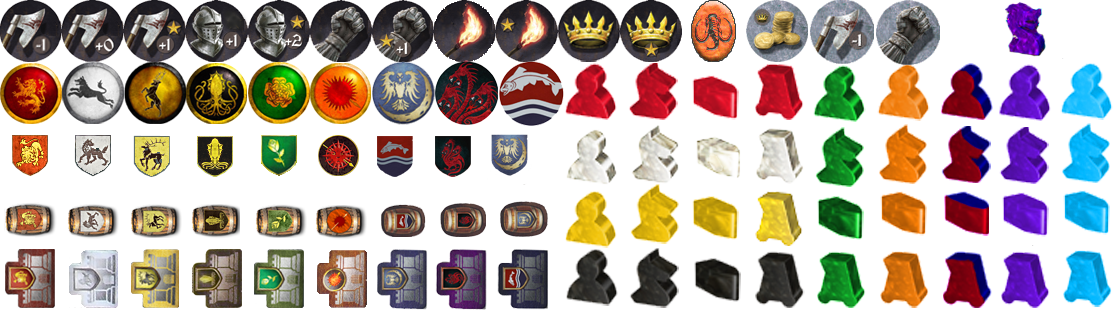
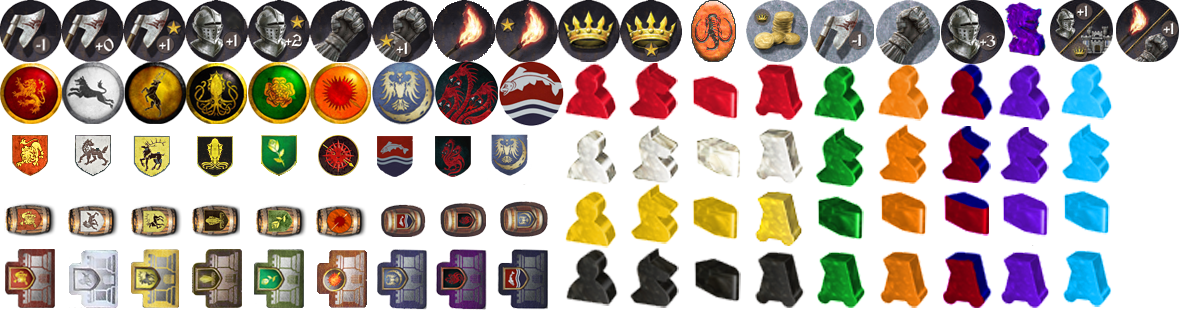
MoD: Added vassal orders

diff --git a/mod.html b/mod.html
@@ -104,7 +104,7 @@
             <textarea name="units-arryn"></textarea>
         </label>
         <label class="fullwidth">
-            Orders (m-1, m+0, m+1, nm-1, s, s*, ns, cp, cp*, ib, d, d*, r, r*):
+            Orders (m-1, m+0, m+1, nm-1, s, s*, ns, cp, cp*, ib, d, d*, r, r*; vassals - m+0, d+3, d-m, s-r):
             <textarea name="orders-arryn"></textarea>
         </label>
         <label class="fullwidth">
@@ -137,7 +137,7 @@
             <textarea name="units-baratheon"></textarea>
         </label>
         <label class="fullwidth">
-            Orders (m-1, m+0, m+1, nm-1, s, s*, ns, cp, cp*, ib, d, d*, r, r*):
+            Orders (m-1, m+0, m+1, nm-1, s, s*, ns, cp, cp*, ib, d, d*, r, r*; vassals - m+0, d+3, d-m, s-r):
             <textarea name="orders-baratheon"></textarea>
         </label>
         <label class="fullwidth">
@@ -170,7 +170,7 @@
             <textarea name="units-greyjoy"></textarea>
         </label>
         <label class="fullwidth">
-            Orders (m-1, m+0, m+1, nm-1, s, s*, ns, cp, cp*, ib, d, d*, r, r*):
+            Orders (m-1, m+0, m+1, nm-1, s, s*, ns, cp, cp*, ib, d, d*, r, r*; vassals - m+0, d+3, d-m, s-r):
             <textarea name="orders-greyjoy"></textarea>
         </label>
         <label class="fullwidth">
@@ -203,7 +203,7 @@
             <textarea name="units-lannister"></textarea>
         </label>
         <label class="fullwidth">
-            Orders (m-1, m+0, m+1, nm-1, s, s*, ns, cp, cp*, ib, d, d*, r, r*):
+            Orders (m-1, m+0, m+1, nm-1, s, s*, ns, cp, cp*, ib, d, d*, r, r*; vassals - m+0, d+3, d-m, s-r):
             <textarea name="orders-lannister"></textarea>
         </label>
         <label class="fullwidth">
@@ -236,7 +236,7 @@
             <textarea name="units-martell"></textarea>
         </label>
         <label class="fullwidth">
-            Orders (m-1, m+0, m+1, nm-1, s, s*, ns, cp, cp*, ib, d, d*, r, r*):
+            Orders (m-1, m+0, m+1, nm-1, s, s*, ns, cp, cp*, ib, d, d*, r, r*; vassals - m+0, d+3, d-m, s-r):
             <textarea name="orders-martell"></textarea>
         </label>
         <label class="fullwidth">
@@ -269,7 +269,7 @@
             <textarea name="units-stark"></textarea>
         </label>
         <label class="fullwidth">
-            Orders (m-1, m+0, m+1, nm-1, s, s*, ns, cp, cp*, ib, d, d*, r, r*):
+            Orders (m-1, m+0, m+1, nm-1, s, s*, ns, cp, cp*, ib, d, d*, r, r*; vassals - m+0, d+3, d-m, s-r):
             <textarea name="orders-stark"></textarea>
         </label>
         <label class="fullwidth">
@@ -302,7 +302,7 @@
             <textarea name="units-targaryen"></textarea>
         </label>
         <label class="fullwidth">
-            Orders (m-1, m+0, m+1, nm-1, s, s*, ns, cp, cp*, ib, d, d*, r, r*):
+            Orders (m-1, m+0, m+1, nm-1, s, s*, ns, cp, cp*, ib, d, d*, r, r*; vassals - m+0, d+3, d-m, s-r):
             <textarea name="orders-targaryen"></textarea>
         </label>
         <label class="fullwidth">
@@ -335,7 +335,7 @@
             <textarea name="units-tyrell"></textarea>
         </label>
         <label class="fullwidth">
-            Orders (m-1, m+0, m+1, nm-1, s, s*, ns, cp, cp*, ib, d, d*, r, r*):
+            Orders (m-1, m+0, m+1, nm-1, s, s*, ns, cp, cp*, ib, d, d*, r, r*; vassals - m+0, d+3, d-m, s-r):
             <textarea name="orders-tyrell"></textarea>
         </label>
         <label class="fullwidth">

diff --git a/9p_files/main_mod.js b/9p_files/main_mod.js
@@ -94,12 +94,15 @@ var $board = $('.board'),
                     .replace(/ r(aid)?\*(\n|$)/ig, ' raid-2$2')
                     .replace(/ d(efend)?(\+1)?(\n|$)/ig, ' defend-1$3')
                     .replace(/ d(efend)?(\+2)?\*?(\n|$)/ig, ' defend-2$3')
+                    .replace(/ d(efend)?(\+3)?(\n|$)/ig, ' defend-3$3')
+                    .replace(/ d(efend)?-m(uster)?(\n|$)/ig, ' defend-4$3')
                     .replace(/ b(ank)?(\n|$)/ig, ' bank-1$2')
                     .replace(/ iron bank?(\n|$)/ig, ' bank-1$2')
                     .replace(/ ib?(\n|$)/ig, ' bank-1$2')
                     .replace(/ ns(upport)?(\n|$)/ig, ' support-3$2')
                     .replace(/ s(upport)?(\n|$)/ig, ' support-1$2')
                     .replace(/ s(upport)?(\+1)?\*?(\n|$)/ig, ' support-2$3')
+                    .replace(/ s(upport)?-r(aid)?(\n|$)/ig, ' support-4$3')
                     .split('\n');
                 for(var i = 0; i < value.length; i += 1) {
                     var valueSplitted = value[i].split(': '),

diff --git a/9p_files/main_mod.css b/9p_files/main_mod.css
@@ -40,9 +40,12 @@ q:before, q:after { content: ""; content: none; }
 .order-march-3,
 .order-defend-1,
 .order-defend-2,
+.order-defend-3,
+.order-defend-4,
 .order-support-1,
 .order-support-2,
 .order-support-3,
+.order-support-4,
 .order-raid-1,
 .order-raid-2,
 .order-power-1,
@@ -249,7 +252,13 @@ q:before, q:after { content: ""; content: none; }
     background-position: -186px 0;
 }
 .order-defend-2 {
-    background-position: -248px 0;
+  background-position: -248px 0;
+}
+.order-defend-3 {
+  background-position: -942px -1px;
+}
+.order-defend-4 {
+  background-position: -1051px 0;
 }
 .order-support-1 {
     background-position: -310px 0;
@@ -258,7 +267,10 @@ q:before, q:after { content: ""; content: none; }
     background-position: -372px 0;
 }
 .order-support-3 {
-    background-position: -877px 0;
+  background-position: -877px 0;
+}
+.order-support-4 {
+  background-position: -1117px 0;
 }
 .order-raid-1 {
     background-position: -434px 0;
